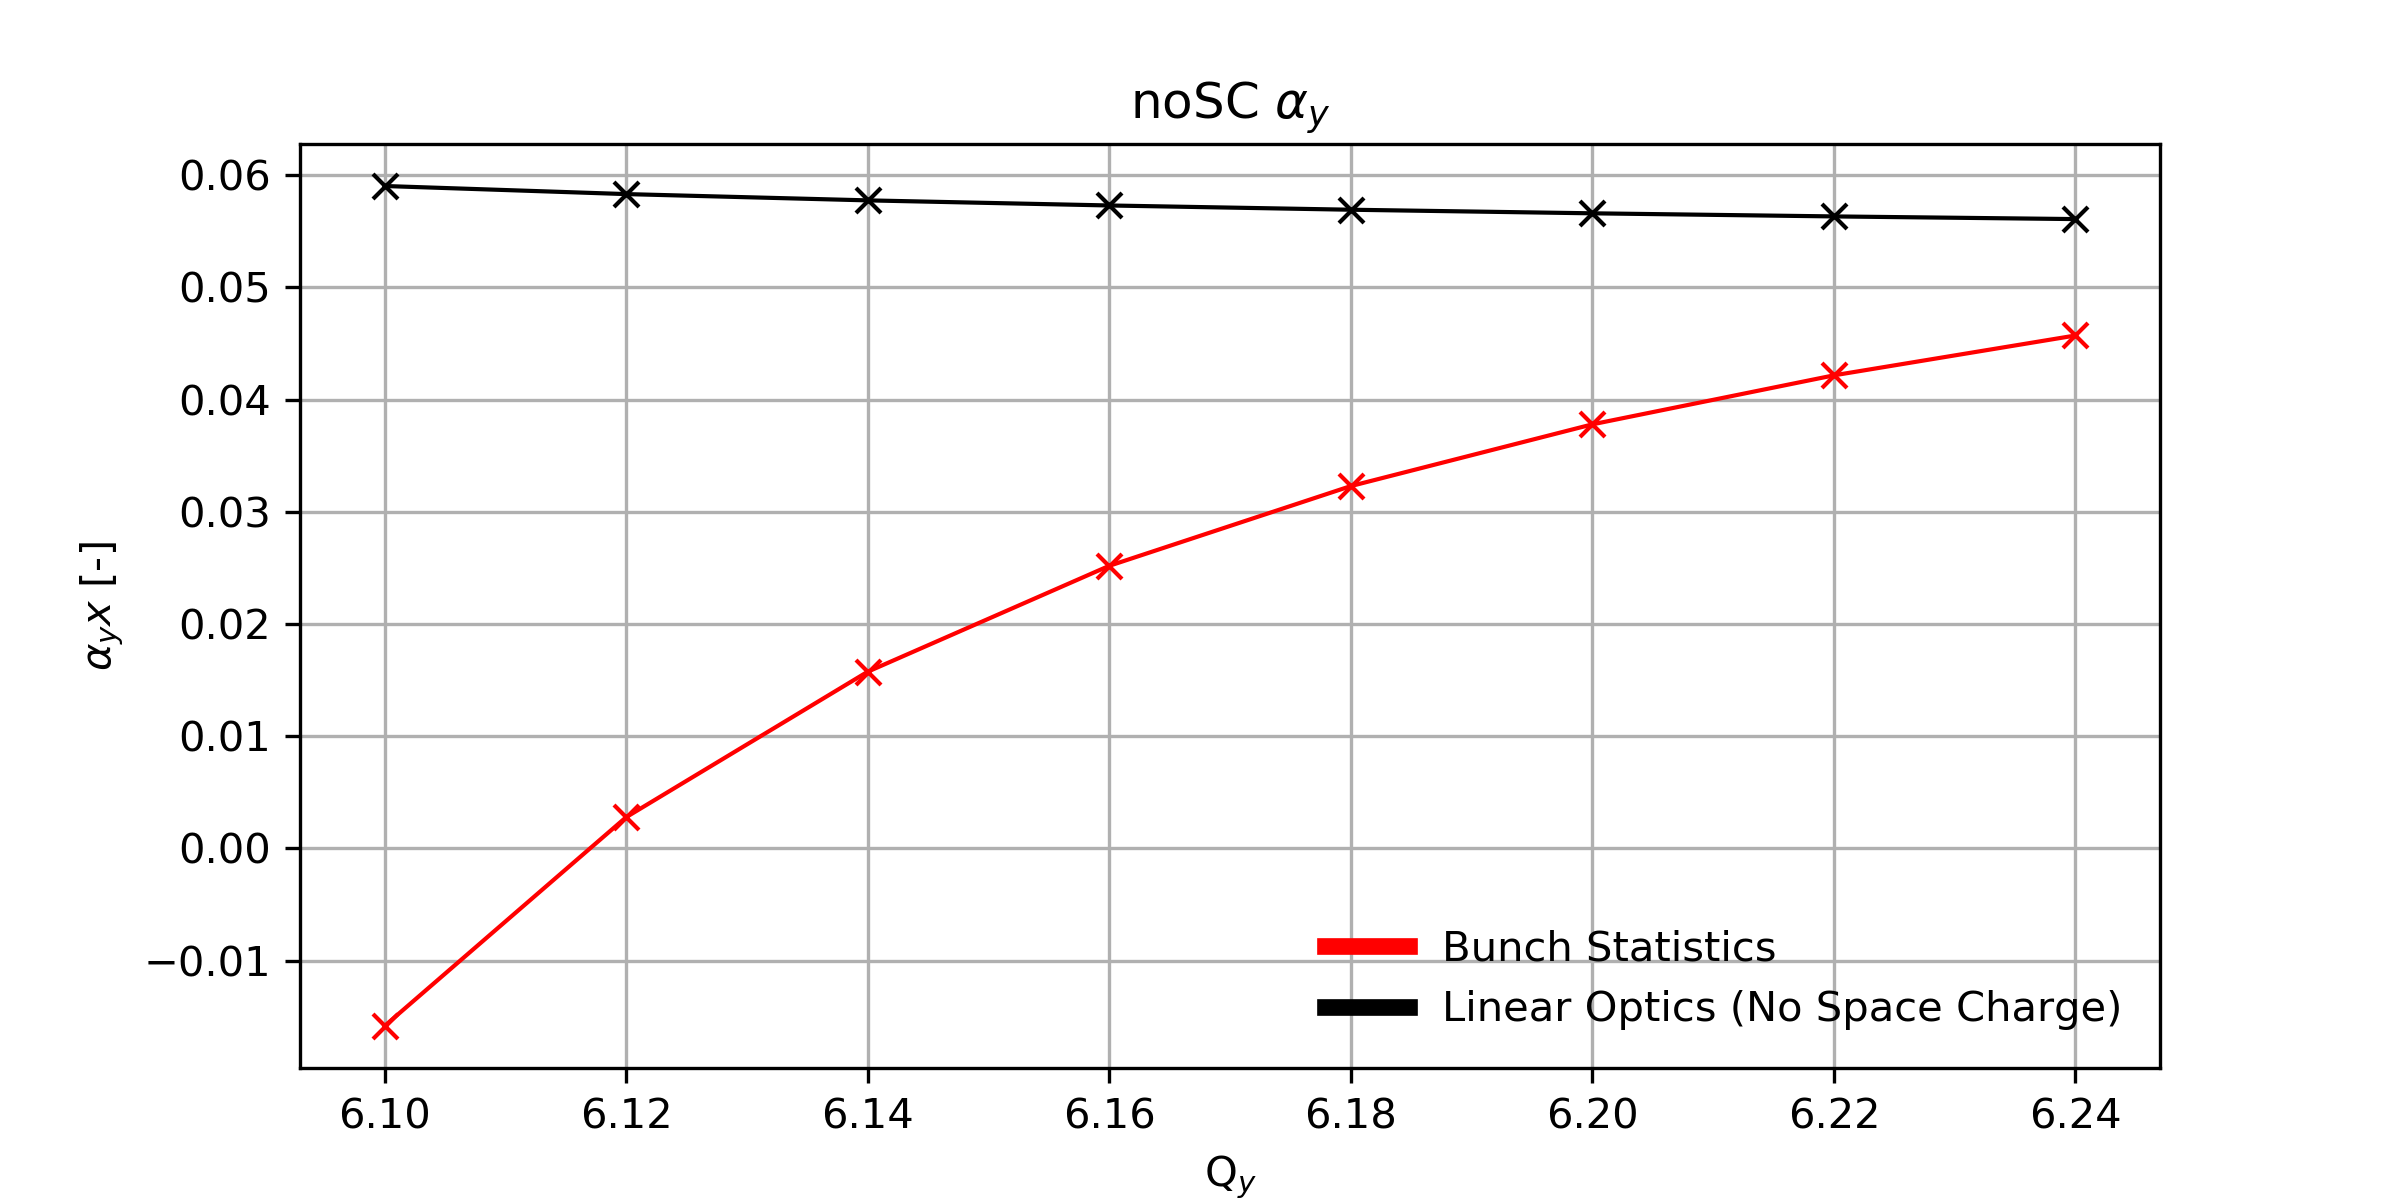
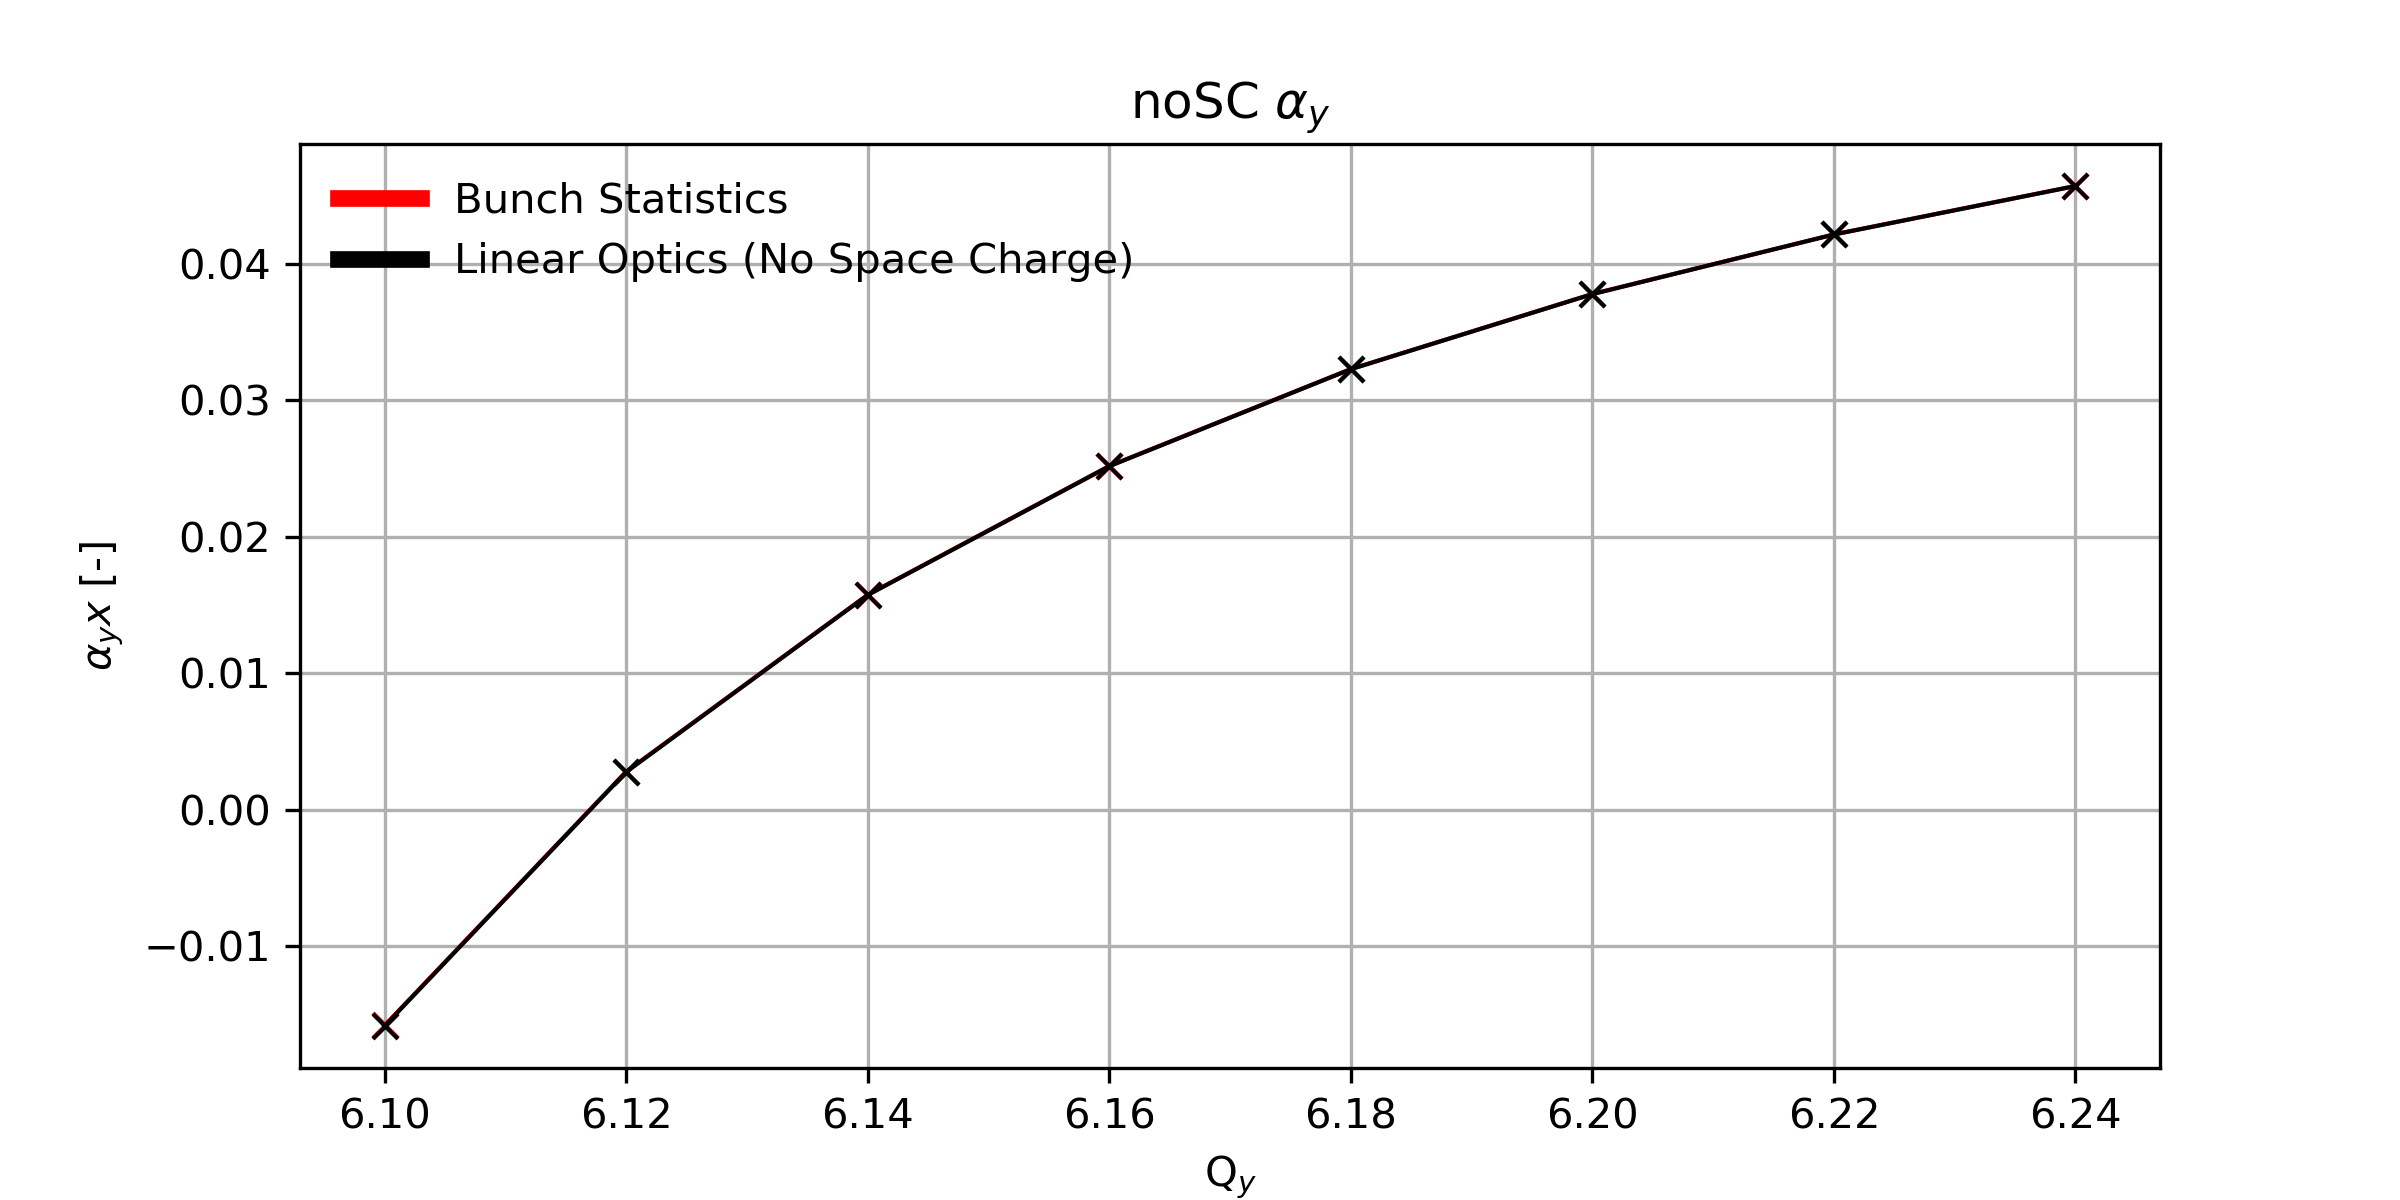
MD4224: HB: Sims: Backups updated

diff --git a/MD4224/High_Brightness/Simulation/Backups/Output_backup_May_10_2019/VScan/Plot_All_Outputs_Multifile_noSC.py b/MD4224/High_Brightness/Simulation/Backups/Output_backup_May_10_2019/VScan/Plot_All_Outputs_Multifile_noSC.py
@@ -875,21 +875,21 @@ def plot_optics(sc, dd, filename):
 
 	ptc_optics = dict()
 	#ptc_optics[float(tune)] = [(all floats) beta_x, beta_y, alpha_x, alpha_y, D_x, D_y]
-	ptc_optics[6.10] = [12.795, 22.226, -0.006969, 0.059026, 2.542529021, 0.]
-	ptc_optics[6.11] = [12.792, 22.216, -0.007001, 0.05864, 2.54230112, 0.]	
-	ptc_optics[6.12] = [12.78866016, 22.20287682, -0.007032, 0.058305, 2.542073286, 0.]
-	ptc_optics[6.13] = [12.78549301, 22.18837837, -0.007063, 0.0580095, 2.541845521, 0.]
-	ptc_optics[6.14] = [12.78232607, 22.17243442, -0.007095, 0.057745, 2.541617825, 0.]
-	ptc_optics[6.15] = [12.77915936, 22.15534784, -0.007126, 0.057507, 2.541390199, 0.]
-	ptc_optics[6.16] = [12.77599288, 22.13734538, -0.007157, 0.057291, 2.541162643, 0.]
-	ptc_optics[6.17] = [12.77282664, 22.11859993, -0.007188, 0.057093, 2.540935158, 0.]
-	ptc_optics[6.18] = [12.76966065, 22.09924535, -0.007220, 0.056912, 2.540707745, 0.]
-	ptc_optics[6.19] = [12.76649491, 22.07938659, -0.007251, 0.056746, 2.540480403, 0.]
-	ptc_optics[6.20] = [12.76332945, 22.05910677, -0.007282, 0.056592, 2.540253134, 0.]	
-	ptc_optics[6.21] = [12.76016425, 22.03847225, -0.007314, 0.056449, 2.540025937, 0.]
-	ptc_optics[6.22] = [12.75699934, 22.01753625, -0.007345, 0.056316, 2.539798815, 0.]	
-	ptc_optics[6.23] = [12.75383472, 21.9963415, -0.007376, 0.056193, 2.539571766, 0.]	
-	ptc_optics[6.24] = [12.7506704, 21.97492223, -0.007408, 0.056078, 2.539344792, 0.]
+	ptc_optics[6.10] = [11.83456792, 24.92373871, 0.011513, -0.015862, 2.858624854, 0.]
+	ptc_optics[6.11] = [11.87596148, 24.42660692, 0.010690, -0.005660, 2.844314013, 0.]
+	ptc_optics[6.12] = [11.91741726, 24.02924164, 0.009857, 0.002752, 2.829919074, 0.]
+	ptc_optics[6.13] = [11.95887931, 23.70631133, 0.009017, 0.009781, 2.815459752, 0.]
+	ptc_optics[6.14] = [12.00030736, 23.44016924, 0.008170, 0.015724, 2.800950597, 0.]
+	ptc_optics[6.15] = [12.04167193, 23.21815984, 0.007316, 0.020797, 2.786402598, 0.]
+	ptc_optics[6.16] = [12.08295116, 23.03097747, 0.006457, 0.025166, 2.771824228, 0.]
+	ptc_optics[6.17] = [12.12412865, 22.87162883, 0.005594, 0.028959, 2.757222142, 0.]	
+	ptc_optics[6.18] = [12.16519202, 22.7347561, 0.004726, 0.032276, 2.742601663, 0.]	
+	ptc_optics[6.19] = [12.20613183, 22.61618278, 0.003854, 0.035195, 2.727967112, 0.]	
+	ptc_optics[6.20] = [12.24694093, 22.51260139, 0.002979, 0.037780, 2.71332205, 0.]
+	ptc_optics[6.21] = [12.28761386, 22.42135386, 0.002101, 0.040084, 2.698669456, 0.]	
+	ptc_optics[6.22] = [12.32814649, 22.34027393, 0.001221, 0.042150, 2.684011849, 0.]	
+	ptc_optics[6.23] = [12.36853572, 22.26757179, 0.000338, 0.044012, 2.66935139, 0.]	
+	ptc_optics[6.24] = [12.40877927, 22.20174814, -0.000546, 0.045702, 2.654689951, 0.]
 	
 	# TODO: 6.21 22 23 24
 	
@@ -1257,8 +1257,8 @@ dd = add_input_file(dd, './610_noSC/output/output.mat', '6.10')
 
 print 'Final data dictionary keys: ', sorted(dd.keys())
 		
-sc = 'noSC'
-main_label = 'noSC'
+sc = 'LEQ_noSC'
+main_label = 'LEQ_noSC'
 main_label2 = main_label + '_zoom'
 scaled_label = main_label + '_scaled'
 legend_label = r'$Q_y$'
